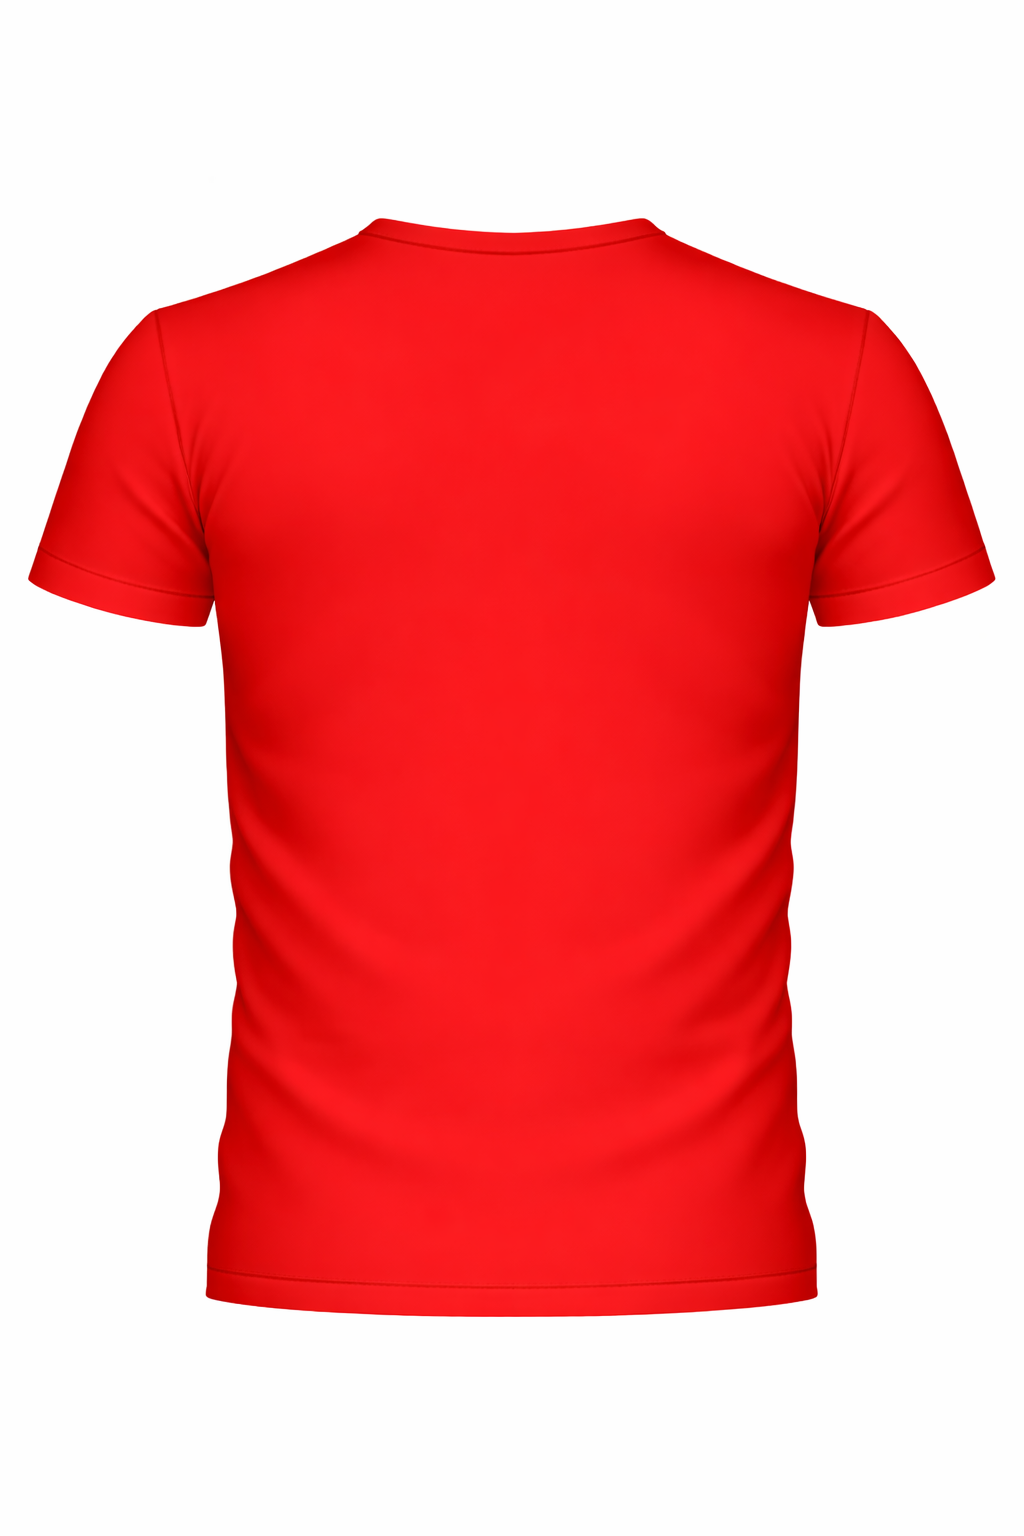
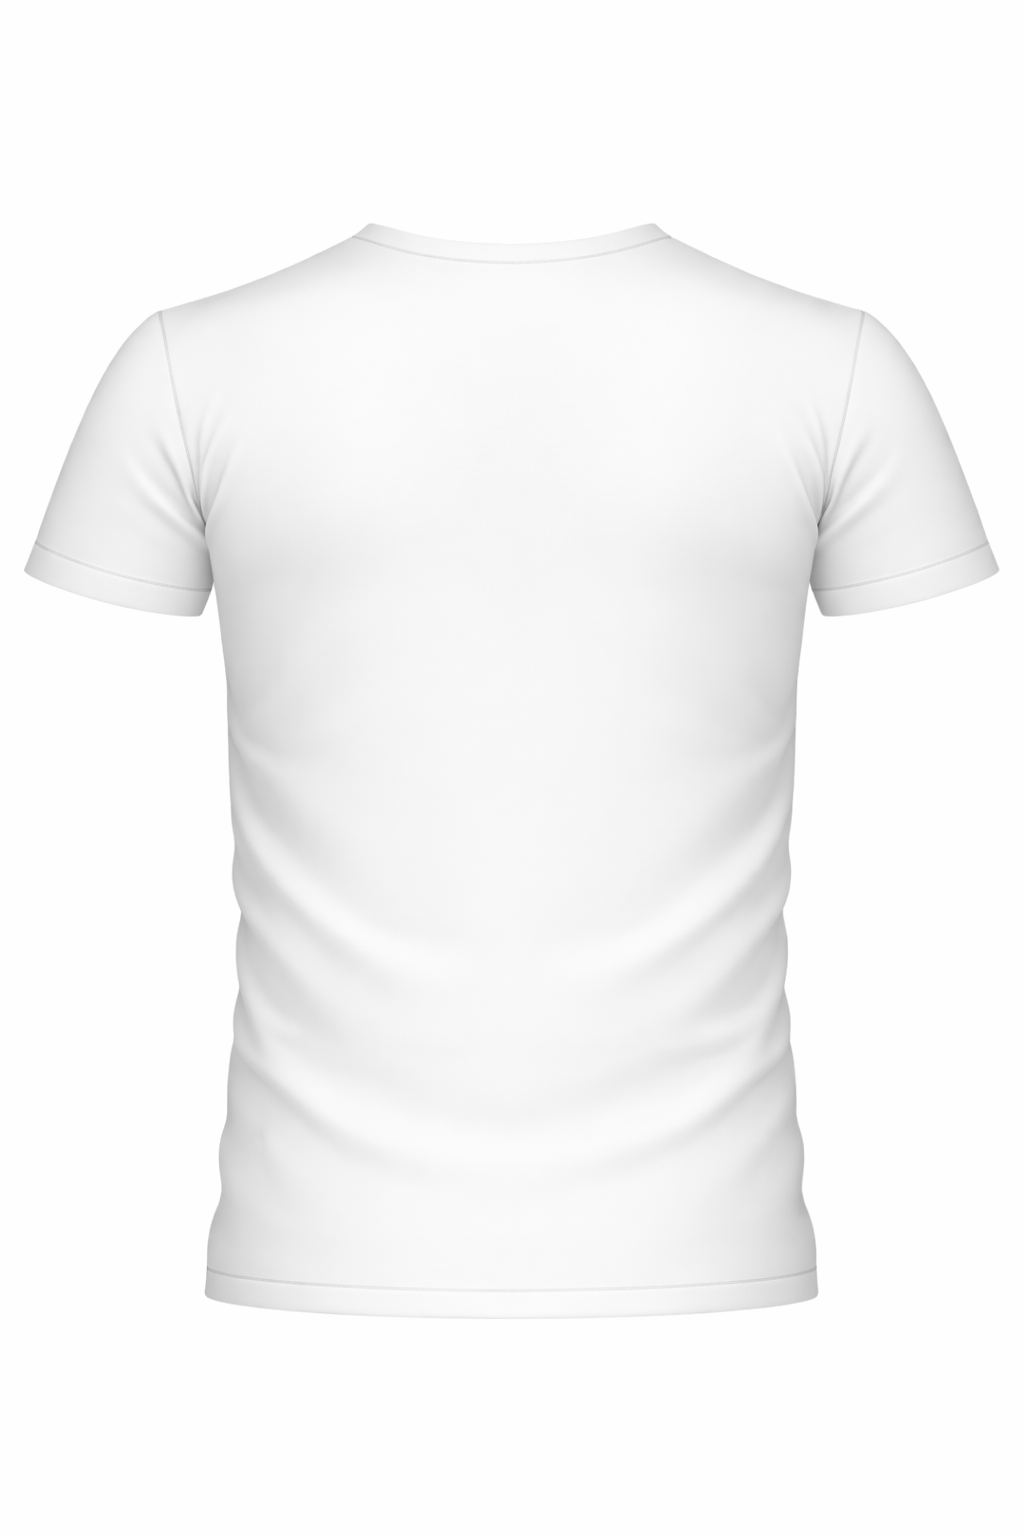
feat: Redesign panels + fix pink mockups
LEFT PANEL Changes (Desktop):
✅ Removed 'Ürün Ayarları' title
✅ Added 'Görsel Yükle' and 'Metin Ekle' buttons at top
✅ Product options below (Ürün Tipi, Açı, Renk, Beden)

RIGHT PANEL Changes (Desktop):
✅ Changed title to 'Tasarım Özeti' (Design Summary)
✅ Removed action buttons (moved to left panel)
✅ Added design preview section:
   - Live mockup with current design
   - Scaled to fit (0.3x transform)
   - Shows all design elements
✅ Added product summary table:
   - Ürün Tipi (Product Type)
   - Açı (Angle)
   - Renk (Color with swatch)
   - Beden (Size)
   - Tasarım Öğeleri count

PINK MOCKUP Fix:
✅ Copied 'Pembe Ön.png' to front-chest.png
✅ Used white mockups for back/left/right (pink not available)
✅ All angles now load correctly

Technical:
- Fixed TypeScript errors (position.x/y, imageUrl)
- Preview uses correct DesignElement interface
- Proper scaling for preview (0.3x)
- Mobile layout unchanged

Result:
- Cleaner, more logical desktop layout ✅
- Live preview of design in progress ✅
- Product summary for quick reference ✅
- Pink mockups work correctly ✅

diff --git a/components/CustomDesignEditor.tsx b/components/CustomDesignEditor.tsx
@@ -763,7 +763,24 @@ export default function CustomDesignEditor({ productImage, productName, onSave }
 
       {/* Left Panel - Product Options Only */}
       <div className="w-full lg:w-[420px] bg-white border-b lg:border-b-0 lg:border-r border-gray-200 p-4 lg:p-6 overflow-y-auto max-h-[calc(50vh+60px)] lg:max-h-screen">
-        <h2 className="hidden lg:block text-2xl font-bold mb-6 text-gray-900">Ürün Ayarları</h2>
+        {/* Quick Action Buttons - Desktop: Top of Left Panel */}
+        <div className="hidden lg:block space-y-3 mb-6">
+          <button
+            onClick={() => setShowAIModal(true)}
+            className="w-full flex items-center justify-center gap-2 px-4 py-3 bg-purple-600 text-white rounded-lg hover:bg-purple-700 transition"
+          >
+            <Upload size={20} />
+            Görsel Yükle
+          </button>
+
+          <button
+            onClick={handleAddText}
+            className="w-full flex items-center justify-center gap-2 px-4 py-3 bg-blue-600 text-white rounded-lg hover:bg-blue-700 transition"
+          >
+            <Type size={20} />
+            Metin Ekle
+          </button>
+        </div>
 
         {/* Product Type Selection */}
         <div className="mb-3 lg:mb-6">
@@ -1040,37 +1057,102 @@ export default function CustomDesignEditor({ productImage, productName, onSave }
         </div>
       </div>
 
-      {/* Right Panel - Design Tools */}
+      {/* Right Panel - Design Preview */}
       <div className="w-full lg:w-80 bg-white border-t lg:border-t-0 lg:border-l border-gray-200 p-4 lg:p-6 overflow-y-auto max-h-screen">
-        <h2 className="hidden lg:block text-2xl font-bold mb-6 text-gray-900">Tasarım Araçları</h2>
+        <h2 className="hidden lg:block text-2xl font-bold mb-6 text-gray-900">Tasarım Özeti</h2>
 
-        {/* Action Buttons - Desktop Only (Mobile shows in left panel) */}
-        <div className="hidden lg:block space-y-3 mb-6">
-          <button
-            onClick={() => setShowAIModal(true)}
-            className="w-full flex items-center justify-center gap-2 px-4 py-3 bg-purple-600 text-white rounded-lg hover:bg-purple-700 transition"
-          >
-            <Upload size={20} />
-            Görsel Yükle
-          </button>
+        {/* Design Preview - Desktop Only */}
+        <div className="hidden lg:block mb-6">
+          <label className="block font-semibold mb-3 text-gray-900">Önizleme</label>
+          <div className="border-2 border-gray-200 rounded-lg overflow-hidden bg-gray-50 aspect-square flex items-center justify-center">
+            {currentElements.length > 0 ? (
+              <div 
+                className="relative w-full h-full"
+                style={{ 
+                  backgroundImage: `url(${getMockupImage()})`,
+                  backgroundSize: 'contain',
+                  backgroundPosition: 'center',
+                  backgroundRepeat: 'no-repeat'
+                }}
+              >
+                {currentElements.map((el) => (
+                  <div
+                    key={el.id}
+                    style={{
+                      position: 'absolute',
+                      left: el.position.x,
+                      top: el.position.y,
+                      transform: 'scale(0.3)',
+                      transformOrigin: 'top left',
+                      pointerEvents: 'none'
+                    }}
+                  >
+                    {el.type === 'image' ? (
+                      <img 
+                        src={el.imageUrl} 
+                        alt="Design element" 
+                        style={{ 
+                          width: el.imageWidth || 128,
+                          height: el.imageHeight || 128,
+                          objectFit: 'contain'
+                        }}
+                      />
+                    ) : (
+                      <div
+                        style={{
+                          fontFamily: el.fontFamily || 'Arial',
+                          fontSize: `${el.fontSize || 24}px`,
+                          color: el.color || '#000000',
+                          whiteSpace: 'nowrap'
+                        }}
+                      >
+                        {el.text}
+                      </div>
+                    )}
+                  </div>
+                ))}
+              </div>
+            ) : (
+              <p className="text-sm text-gray-400">Tasarım eklenmedi</p>
+            )}
+          </div>
+        </div>
 
-          <button
-            onClick={handleAddText}
-            className="w-full flex items-center justify-center gap-2 px-4 py-3 bg-blue-600 text-white rounded-lg hover:bg-blue-700 transition"
-          >
-            <Type size={20} />
-            Metin Ekle
-          </button>
-
-          {selectedElement && (
-            <button
-              onClick={handleDeleteElement}
-              className="w-full flex items-center justify-center gap-2 px-4 py-3 bg-red-600 text-white rounded-lg hover:bg-red-700 transition"
-            >
-              <Trash2 size={20} />
-              Sil
-            </button>
-          )}
+        {/* Product Summary - Desktop Only */}
+        <div className="hidden lg:block mb-6 p-4 bg-gray-50 rounded-lg">
+          <label className="block font-semibold mb-3 text-gray-900">Ürün Detayları</label>
+          <div className="space-y-2 text-sm">
+            <div className="flex justify-between">
+              <span className="text-gray-600">Ürün Tipi:</span>
+              <span className="font-medium text-gray-900">{PRODUCT_CONFIGS[selectedProduct].name}</span>
+            </div>
+            <div className="flex justify-between">
+              <span className="text-gray-600">Açı:</span>
+              <span className="font-medium text-gray-900">
+                {availableAngles.find(a => a.id === selectedAngle)?.name || selectedAngle}
+              </span>
+            </div>
+            <div className="flex justify-between items-center">
+              <span className="text-gray-600">Renk:</span>
+              <div className="flex items-center gap-2">
+                <div 
+                  className="w-5 h-5 rounded-full border border-gray-300" 
+                  style={{ backgroundColor: COLOR_HEX[selectedColor] }}
+                />
+                <span className="font-medium text-gray-900">{COLOR_LABELS[selectedColor]}</span>
+              </div>
+            </div>
+            {availableSizes.length > 0 && (
+              <div className="flex justify-between">
+                <span className="text-gray-600">Beden:</span>
+                <span className="font-medium text-gray-900">{selectedSize}</span>
+              </div>
+            )}
+            <div className="flex justify-between">
+              <span className="text-gray-600">Tasarım Öğeleri:</span>
+              <span className="font-medium text-gray-900">{currentElements.length}</span>
+            </div>
+          </div>
         </div>
 
         {/* Element List - Desktop Only */}
